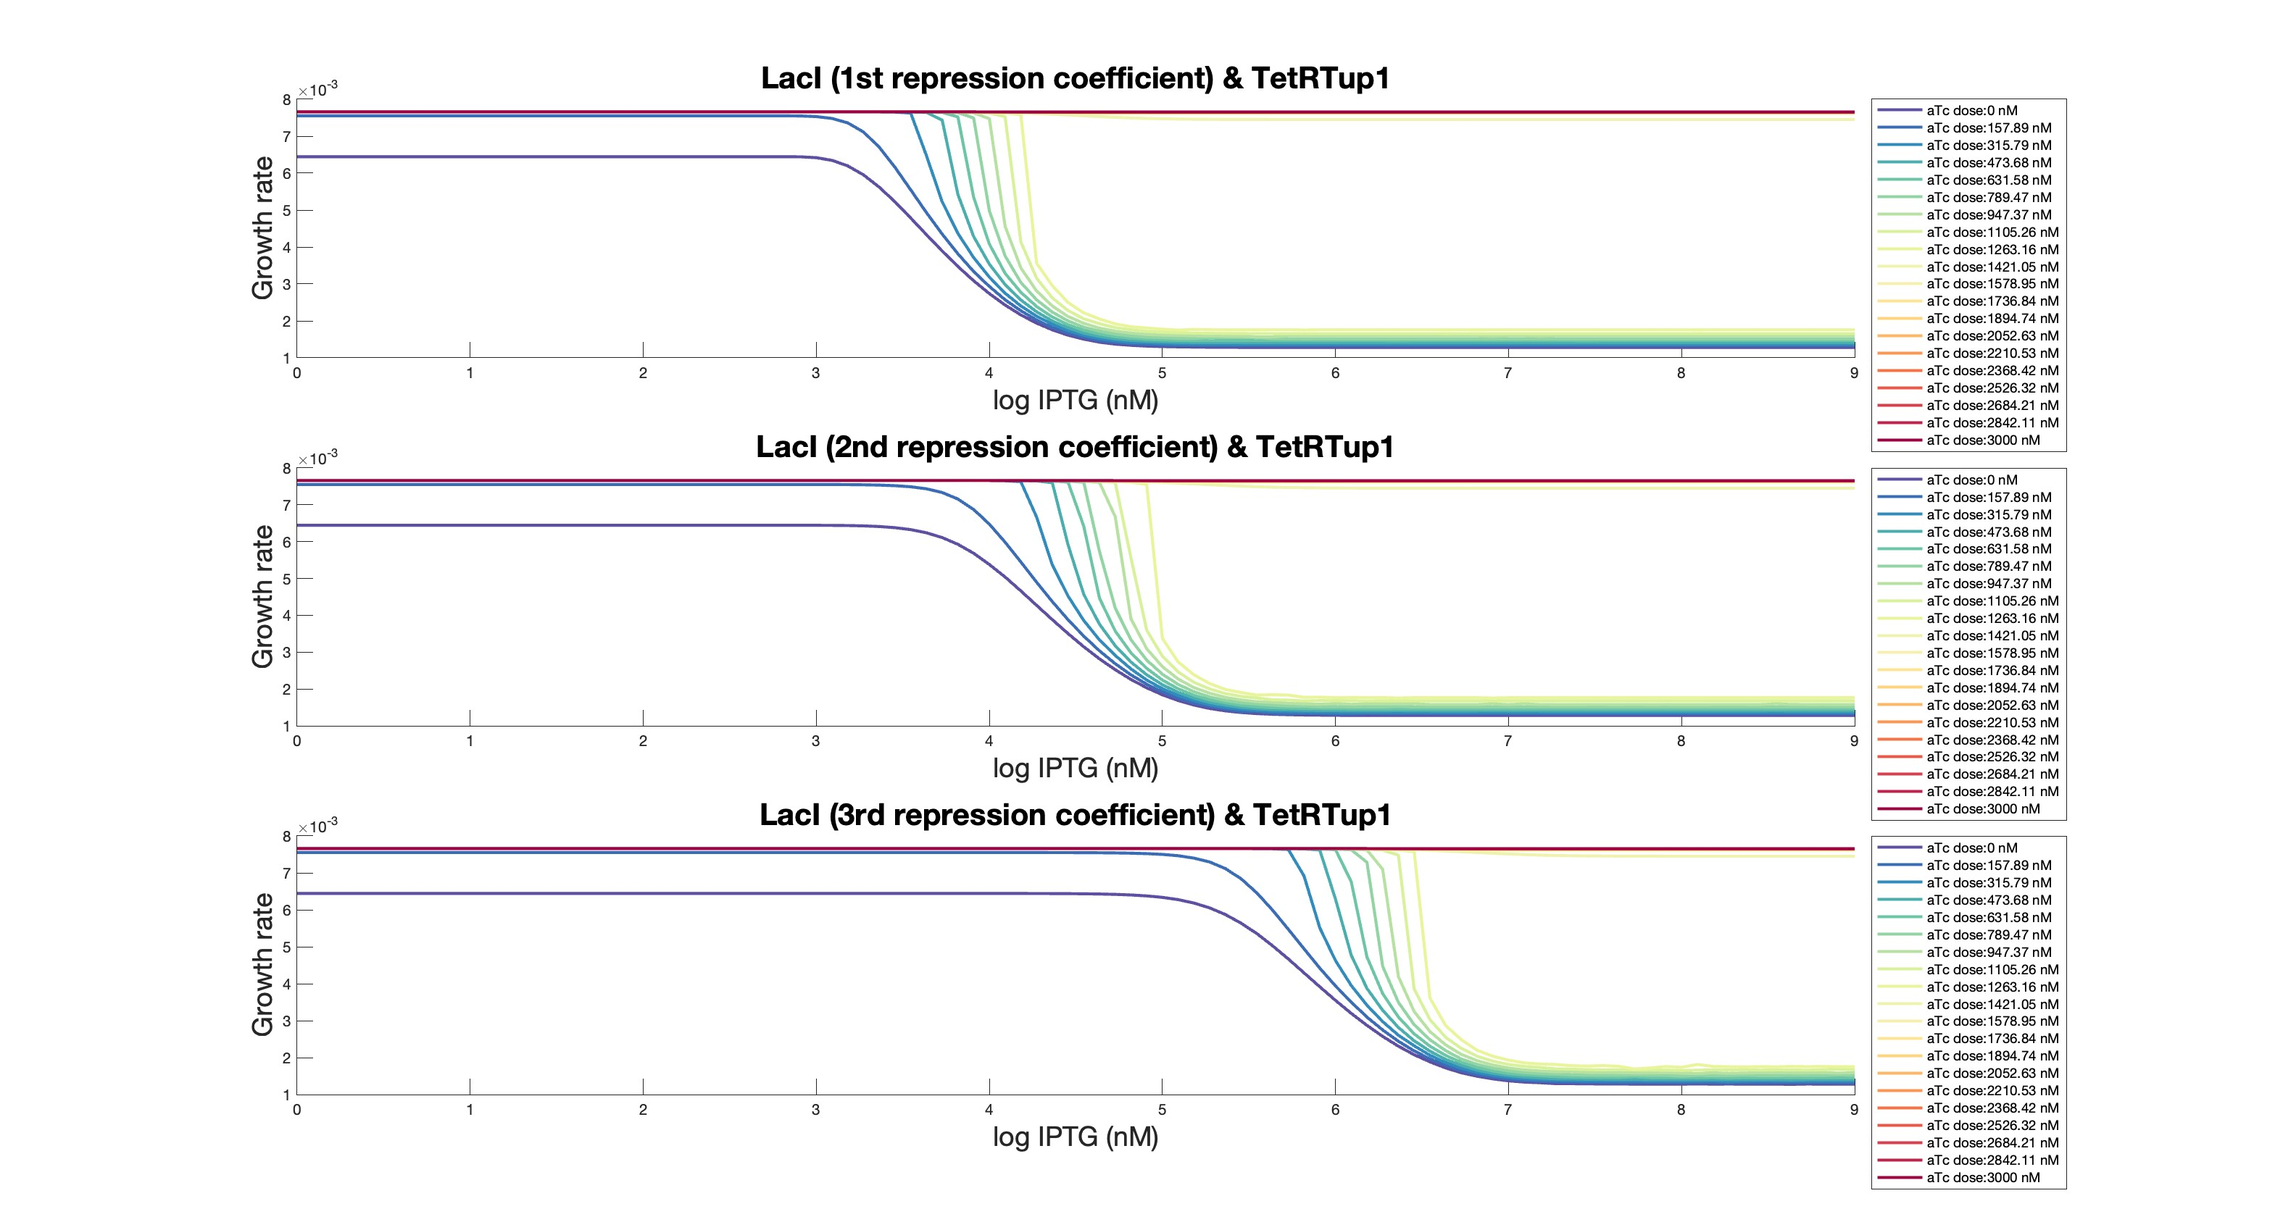
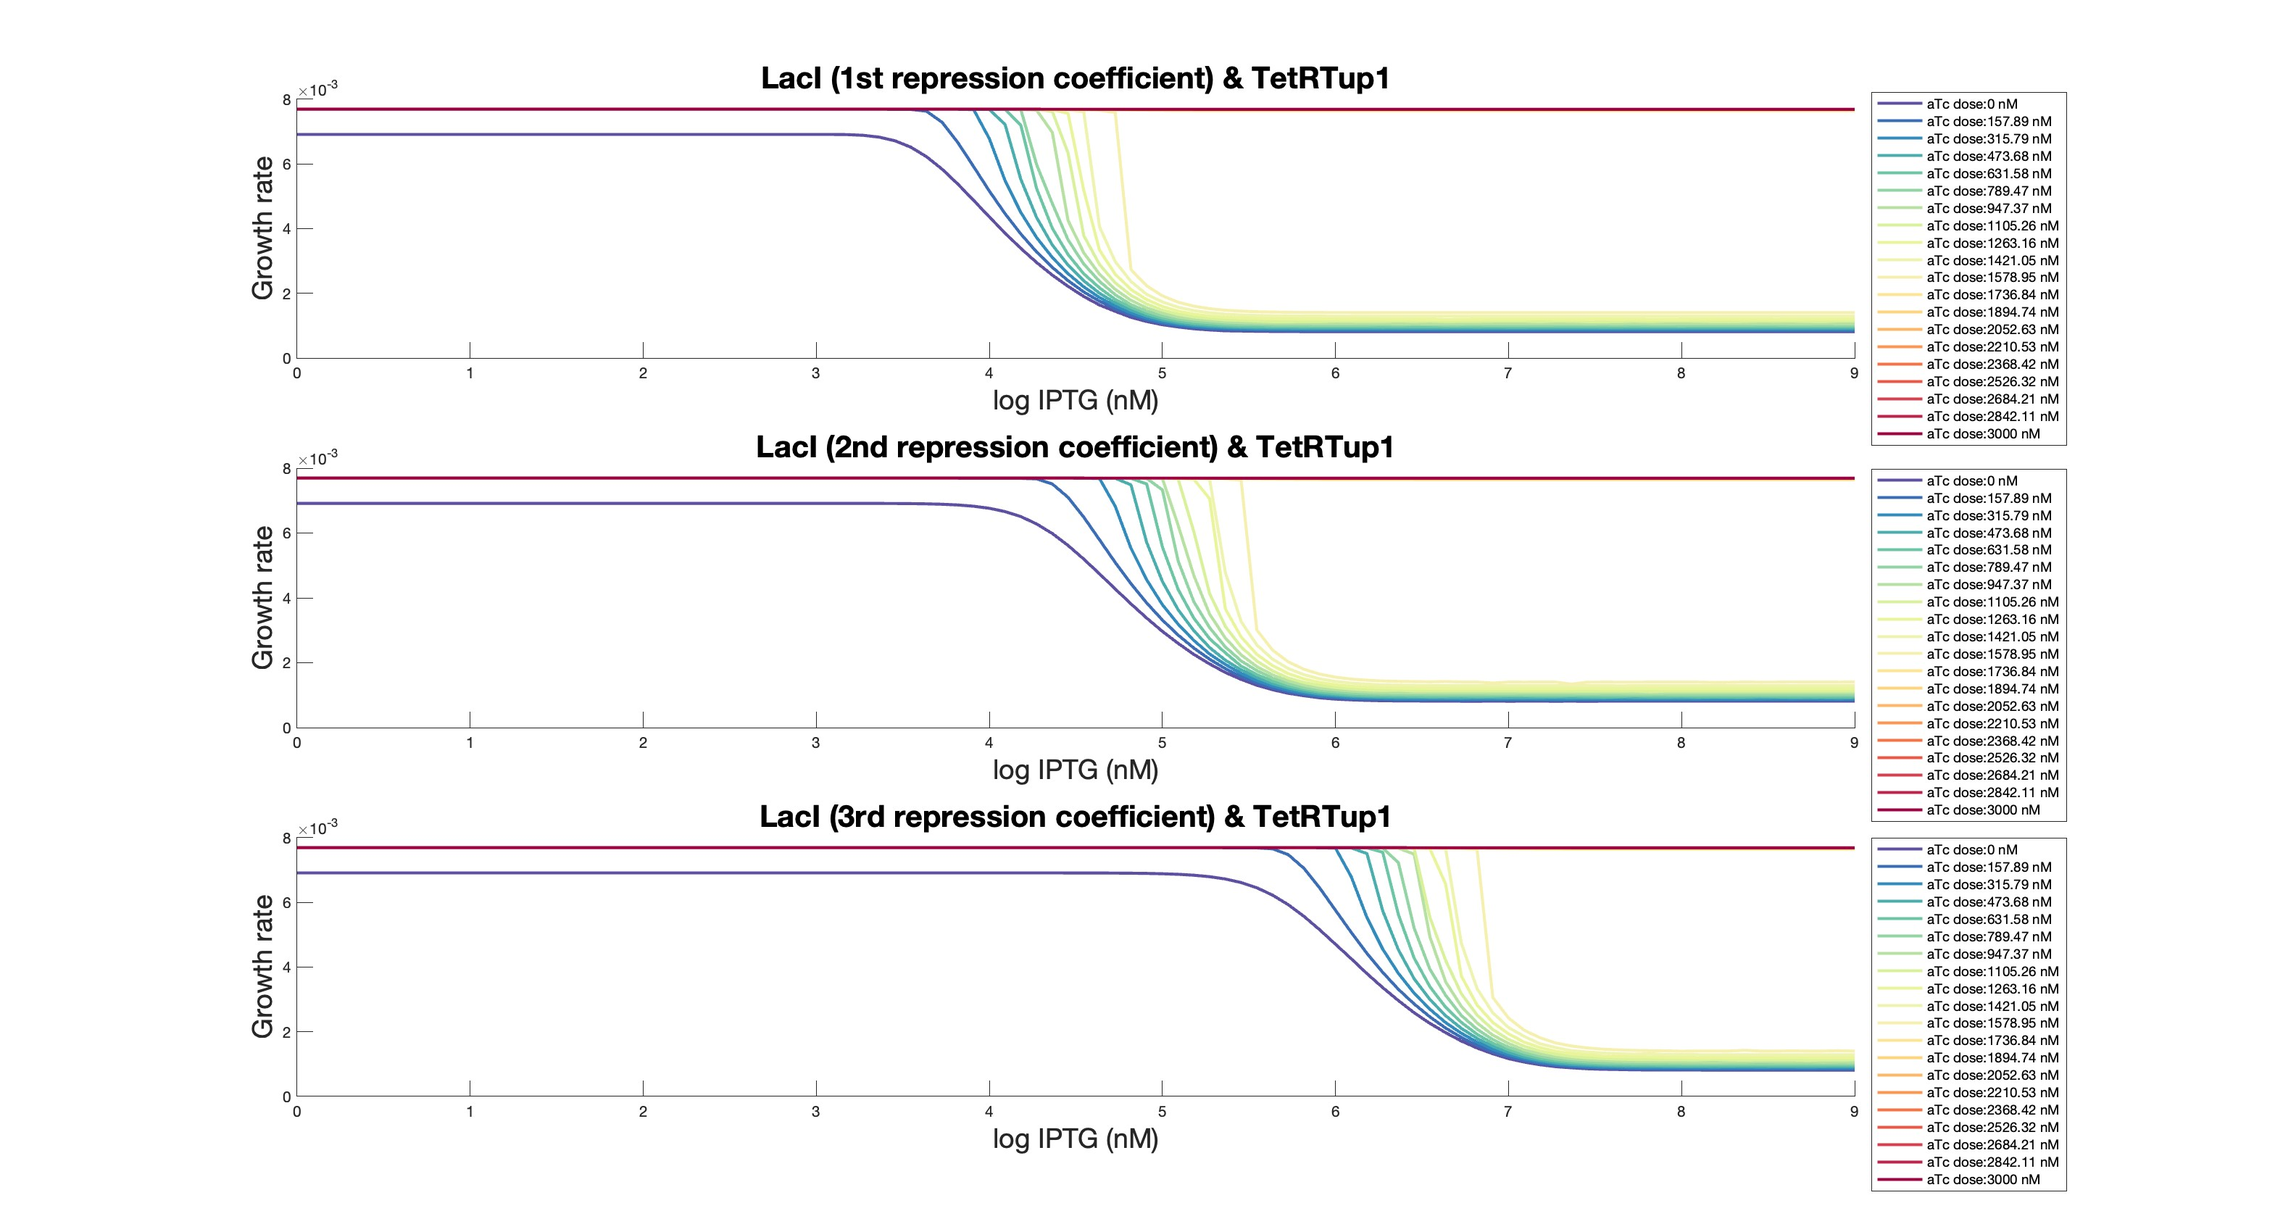
Changes: Take out TetR from equation for TetRTup1free

Changed region(s): [[0.1244, 0.0624, 0.9022, 0.4058], [0.1244, 0.5931, 0.9022, 0.9052], [0.1244, 0.3433, 0.8089, 0.5931]]

diff --git a/Master_Thesis/LacI_TetR_Tup1/PMA1/Code/Model/LacI_TetR_PMA1_model.m b/Master_Thesis/LacI_TetR_Tup1/PMA1/Code/Model/LacI_TetR_PMA1_model.m
@@ -1,8 +1,6 @@
 % Simple model with three species
 
 LacI_TetRTup1_PMA1_model = sbiomodel('LacI_TetRTup1_PMA1_model');
-% unit1 = sbiounit('nM', 'mole', 1000000000);
-% sbioaddtolibrary(unit1);
 
 c = addcompartment(LacI_TetRTup1_PMA1_model, 'comp');
 
@@ -11,20 +9,13 @@ s1 = addspecies(LacI_TetRTup1_PMA1_model, 'LacI', 'InitialAmount', 0);
 s2 = addspecies(LacI_TetRTup1_PMA1_model, 'LacIfree', 'InitialAmount', 0);
 s3 = addspecies(LacI_TetRTup1_PMA1_model, 'TetRTup1', 'InitialAmount', 0);
 s4 = addspecies(LacI_TetRTup1_PMA1_model, 'TetRTup1free', 'InitialAmount', 0);
-s5 = addspecies(LacI_TetRTup1_PMA1_model, 'Citrimmature', 'InitialAmount', 0);
-s6 = addspecies(LacI_TetRTup1_PMA1_model, 'Citrine', 'InitialAmount', 0);
 s7 = addspecies(LacI_TetRTup1_PMA1_model, 'IPTG', 'InitialAmount', 0);
 s8 = addspecies(LacI_TetRTup1_PMA1_model, 'IPTG_InUnit', 'InitialAmount', 0);
 s9 = addspecies(LacI_TetRTup1_PMA1_model, 'KdLacI_InUnit', 'InitialAmount', 0);
 s10 = addspecies(LacI_TetRTup1_PMA1_model, 'KdTetR_InUnit', 'InitialAmount', 0);
 s11 = addspecies(LacI_TetRTup1_PMA1_model, 'aTc', 'InitialAmount', 0);
 s12 = addspecies(LacI_TetRTup1_PMA1_model, 'aTc_InUnit', 'InitialAmount', 0);
-s13 = addspecies(LacI_TetRTup1_PMA1_model, 'TetR', 'InitialAmount', 0);
-s14 = addspecies(LacI_TetRTup1_PMA1_model, 'TetRfree', 'InitialAmount', 0);
 s15 = addspecies(LacI_TetRTup1_PMA1_model, 'PMA1', 'InitialAmount',0);
-%s16 = addspecies(LacI_TetRTup1_PMA1_model, 'mu', 'InitialAmount', 0);
-
-%s16.ConstantAmount = false;
 
 
 p1 = addparameter(LacI_TetRTup1_PMA1_model, 'kLacI', 'Value', 1.3389, 'ValueUnits', '(molarity)/minute');
@@ -35,9 +26,6 @@ p5 = addparameter(LacI_TetRTup1_PMA1_model, 'degtag', 'Value', 0.0077, 'ValueUni
 p6 = addparameter(LacI_TetRTup1_PMA1_model, 'LacIrep', 'Value', 0.3607, 'ValueUnits', 'molarity');
 p7 = addparameter(LacI_TetRTup1_PMA1_model, 'LacIrep2', 'Value', 0.3607, 'ValueUnits', 'molarity');
 p8 = addparameter(LacI_TetRTup1_PMA1_model, 'LacIrep3', 'Value', 0.3607, 'ValueUnits', 'molarity');
-p9 = addparameter(LacI_TetRTup1_PMA1_model, 'kCit', 'Value', 1.3389, 'ValueUnits', '(molarity)/minute');
-p10 = addparameter(LacI_TetRTup1_PMA1_model, 'dCit', 'Value', 0.0077, 'ValueUnits', '1/minute');
-%p11 = addparameter(LacI_TetRTup1_PMA1_model, 'CitL', 'Value', 0.0077, 'ValueUnits', 'dimensionless');
 p12 = addparameter(LacI_TetRTup1_PMA1_model, 'TetRTup1L', 'Value', 0.0077, 'ValueUnits', 'dimensionless');
 p13 = addparameter(LacI_TetRTup1_PMA1_model, 'nLacI', 'Value', 1.001, 'ValueUnits', 'dimensionless');
 p14 = addparameter(LacI_TetRTup1_PMA1_model, 'nTetRTup1', 'Value', 1.001, 'ValueUnits', 'dimensionless');
@@ -47,12 +35,9 @@ p17 = addparameter(LacI_TetRTup1_PMA1_model, 'kmaturation', 'Value', 0.0173, 'Va
 p18 = addparameter(LacI_TetRTup1_PMA1_model, 'nMperUnit', 'Value', 1.6552, 'ValueUnits', 'dimensionless');
 p19 = addparameter(LacI_TetRTup1_PMA1_model, 'mu', 'Value', 0.0077, 'Valueunits', '1/minute');
 p20 = addparameter(LacI_TetRTup1_PMA1_model, 'TetRTup1rep', 'Value', 0.3607, 'ValueUnits', 'molarity');
-p21 = addparameter(LacI_TetRTup1_PMA1_model, 'kTetR', 'Value', 1.3389, 'ValueUnits', '(molarity)/minute');
-p22 = addparameter(LacI_TetRTup1_PMA1_model, 'dTetR', 'Value', 0.0014, 'ValueUnits', '1/minute');
 p23 = addparameter(LacI_TetRTup1_PMA1_model, 'kPMA1', 'Value', 1.3389, 'ValueUnits', '(molarity)/minute');
 p25 = addparameter(LacI_TetRTup1_PMA1_model, 'dPMA1', 'Value', 0.0014, 'ValueUnits', '1/minute');
 p26 = addparameter(LacI_TetRTup1_PMA1_model, 'TetRrep', 'Value', 0.3607, 'ValueUnits', 'molarity');
-p27 = addparameter(LacI_TetRTup1_PMA1_model, 'nTetR', 'Value', 1.001, 'ValueUnits', 'dimensionless');
 p38 = addparameter(LacI_TetRTup1_PMA1_model, 'p1', 'Value', 5, 'ValueUnits', 'dimensionless');
 p39 = addparameter(LacI_TetRTup1_PMA1_model, 'p2', 'Value', 5, 'ValueUnits', 'dimensionless');
 p40 = addparameter(LacI_TetRTup1_PMA1_model, 'growthMIN', 'Value', 0, 'ValueUnits', '1/minute');
@@ -72,14 +57,9 @@ scaling3 = addrule(LacI_TetRTup1_PMA1_model, 'KdTetR_InUnit = KdTetR/nMperUnit',
 scaling4 = addrule(LacI_TetRTup1_PMA1_model, 'aTc_InUnit = aTc/nMperUnit', 'RuleType', 'repeatedAssignment');
 
 raterule1 = addrule(LacI_TetRTup1_PMA1_model, 'LacI = kLacI - (dLacI + mu) * LacI', 'RuleType', 'rate');
-raterule2 = addrule(LacI_TetRTup1_PMA1_model, 'TetRTup1 = kTetRTup1 + kLacTetRTup1 * (TetRTup1L + (1 - TetRTup1L)/(1 + (LacIfree/(LacIrep+LacIrep2+LacIrep3))^nLacI)) - (dTetRTup1 + mu + degtag) * TetRTup1', 'RuleType', 'rate');
-%raterule3 = addrule(LacI_TetRTup1_PMA1_model, 'Citrimmature = kCit * (CitL + (1 - CitL)/(1 + (TetRTup1free/TetRTup1rep)^nTetRTup1)) - (dCit + mu + kmaturation) * Citrimmature', 'RuleType', 'rate');
-%raterule4 = addrule(LacI_TetRTup1_PMA1_model, 'Citrine = kmaturation * Citrimmature - (dCit + mu) * Citrine', 'RuleType', 'rate');
-raterule5 = addrule(LacI_TetRTup1_PMA1_model, 'TetR = kTetR - (dTetR + mu) * TetR', 'RuleType', 'rate');
-raterule6 = addrule(LacI_TetRTup1_PMA1_model, 'PMA1 = kPMA1 * (PMA1L + (1 - PMA1L)/(1 + (TetRTup1free * g/TetRTup1rep)^nTetRTup1)) - (dPMA1 + mu) * PMA1', 'RuleType', 'rate');
+raterule2 = addrule(LacI_TetRTup1_PMA1_model, 'TetRTup1 = kLacTetRTup1 * (TetRTup1L + (1 - TetRTup1L)/(1 + (LacIfree/(LacIrep+LacIrep2+LacIrep3))^nLacI)) - 2*(dTetRTup1 + mu + degtag) * TetRTup1', 'RuleType', 'rate');
+raterule3 = addrule(LacI_TetRTup1_PMA1_model, 'PMA1 = kPMA1 * (PMA1L + (1 - PMA1L)/(1 + (TetRTup1free * g/TetRTup1rep)^nTetRTup1)) - (dPMA1 + mu) * PMA1', 'RuleType', 'rate');
 
 repassrule1 = addrule(LacI_TetRTup1_PMA1_model, 'LacIfree = max(0, LacI/2 - KdLacI_InUnit/2 - IPTG_InUnit/2 + (KdLacI_InUnit^2 + 2*KdLacI_InUnit*LacI + 2*KdLacI_InUnit*IPTG_InUnit + LacI^2 - 2*LacI*IPTG_InUnit + IPTG_InUnit^2)^(1/2)/2)', 'RuleType', 'repeatedAssignment');
-repassrule2 = addrule(LacI_TetRTup1_PMA1_model, 'TetRTup1free = max(TetRTup1 - (TetR*TetRTup1 + TetRTup1*aTc_InUnit - TetRTup1*(KdTetR_InUnit^2 + 2*KdTetR_InUnit*TetR + 2*KdTetR_InUnit*TetRTup1 + 2*KdTetR_InUnit*aTc_InUnit + TetR^2 + 2*TetR*TetRTup1 - 2*TetR*aTc_InUnit + TetRTup1^2 - 2*TetRTup1*aTc_InUnit + aTc_InUnit^2)^(1/2) + TetRTup1^2 + KdTetR_InUnit*TetRTup1)/(2*(TetR + TetRTup1)),0)', 'RuleType', 'repeatedAssignment');
-%repassrule3 = addrule(LacI_TetRTup1_PMA1_model, 'TetRfree = max(TetR - (TetR*(TetR*TetRTup1 + TetRTup1*aTc_InUnit - TetRTup1*(KdTetR_InUnit^2 + 2*KdTetR_InUnit*TetR + 2*KdTetR_InUnit*TetRTup1 + 2*KdTetR_InUnit*aTc_InUnit + TetR^2 + 2*TetR*TetRTup1 - 2*TetR*aTc_InUnit + TetRTup1^2 - 2*TetRTup1*aTc_InUnit + aTc_InUnit^2)^(1/2) + TetRTup1^2 + KdTetR_InUnit*TetRTup1))/(2*TetRTup1*(TetR + TetRTup1)),0)', 'RuleType', 'repeatedAssignment');
-repassrule4 = addrule(LacI_TetRTup1_PMA1_model, 'mu = max(0,growthMAX  + (growthMIN  - growthMAX )/(1 + exp(p2*(log((PMA1/PMAfactor)*nMperUnit)-p1))))', 'RuleType', 'repeatedAssignment');
-%repassrule5 = addrule(LacI_TetRTup1_PMA1_model, 'PMA1 = PMA1/PMAfactor', 'RuleType', 'repeatedAssignment');
+repassrule2 = addrule(LacI_TetRTup1_PMA1_model, 'TetRTup1free = max(0, TetRTup1/2 - KdTetR_InUnit/2 - aTc_InUnit/2 + (KdTetR_InUnit^2 + 2*KdTetR_InUnit*TetRTup1 + 2*KdTetR_InUnit*aTc_InUnit + TetRTup1^2 - 2*TetRTup1*aTc_InUnit + aTc_InUnit^2)^(1/2)/2)', 'RuleType', 'repeatedAssignment');
+repassrule3 = addrule(LacI_TetRTup1_PMA1_model, 'mu = max(0, growthMAX  + (growthMIN  - growthMAX )/(1 + exp(p2*(log((PMA1/PMAfactor)*nMperUnit)-p1))))', 'RuleType', 'repeatedAssignment');

diff --git a/Master_Thesis/LacI_TetR_Tup1/PMA1/Code/Simulationfunction/Simulate_random_drawn_parameters_TetRTup1_PMA1_model.m b/Master_Thesis/LacI_TetR_Tup1/PMA1/Code/Simulationfunction/Simulate_random_drawn_parameters_TetRTup1_PMA1_model.m
@@ -17,7 +17,7 @@ for k = 1:height(rand_parameter)
         %% module 1: ptetTetR + ptetCitrine
             para = paraValues;
 
-            NamestoZero = setdiff(ParaNames,{'kLacI','dLacI', 'kTetRTup1', 'dTetRTup1', 'degtag','LacIrep', 'TetRTup1L', 'nLacI', 'indTime', 'nTetRTup1', 'KdLacI', 'KdTetR', 'kmaturation', 'nMperUnit', 'mu', 'TetRTup1rep', 'kTetR', 'dTetR', 'nTetR', 'p1', 'p2', 'growthMIN', 'growthMAX', 'f', 'g', 'kPMA1', 'dPMA1', 'PMAfactor', 'kLacTetRTup1'});                            
+            NamestoZero = setdiff(ParaNames,{'kLacI','dLacI', 'kTetRTup1', 'dTetRTup1', 'degtag','LacIrep', 'TetRTup1L', 'nLacI', 'indTime', 'nTetRTup1', 'KdLacI', 'KdTetR', 'kmaturation', 'nMperUnit', 'mu', 'TetRTup1rep', 'p1', 'p2', 'growthMIN', 'growthMAX', 'f', 'g', 'kPMA1', 'dPMA1', 'PMAfactor', 'kLacTetRTup1'});                            
             IdxToZero = find(ismember(ParaNames, NamestoZero)) ;           
             para(IdxToZero) = 0;
 
@@ -78,7 +78,7 @@ for k = 1:height(rand_parameter)
         %% module 1: ptetTetR + ptetCitrine
             para = paraValues;
 
-            NamestoZero = setdiff(ParaNames,{'kLacI','dLacI', 'kTetRTup1', 'dTetRTup1', 'degtag','LacIrep2', 'kCit', 'CitL', 'TetRTup1L', 'nLacI', 'indTime', 'nTetRTup1', 'KdLacI', 'KdTetR', 'kmaturation', 'nMperUnit', 'mu', 'TetRTup1rep', 'kTetR', 'dTetR', 'nTetR', 'p1', 'p2', 'growthMIN', 'growthMAX', 'f', 'g', 'kPMA1', 'dPMA1', 'PMAfactor', 'kLacTetRTup1'});                            
+            NamestoZero = setdiff(ParaNames,{'kLacI','dLacI', 'kTetRTup1', 'dTetRTup1', 'degtag','LacIrep2', 'kCit', 'CitL', 'TetRTup1L', 'nLacI', 'indTime', 'nTetRTup1', 'KdLacI', 'KdTetR', 'kmaturation', 'nMperUnit','mu', 'TetRTup1rep', 'p1', 'p2', 'growthMIN', 'growthMAX', 'f', 'g', 'kPMA1', 'dPMA1', 'PMAfactor', 'kLacTetRTup1'});                            
             IdxToZero = find(ismember(ParaNames, NamestoZero)) ;           
             para(IdxToZero) = 0;
 
@@ -134,7 +134,7 @@ for k = 1:height(rand_parameter)
         %% module 1: ptetTetR + ptetCitrine
             para = paraValues;
 
-            NamestoZero = setdiff(ParaNames,{'kLacI','dLacI', 'kTetRTup1', 'dTetRTup1', 'degtag','LacIrep3', 'kCit', 'CitL', 'TetRTup1L', 'nLacI', 'indTime', 'nTetRTup1', 'KdLacI', 'KdTetR', 'kmaturation', 'nMperUnit', 'mu', 'TetRTup1rep', 'kTetR', 'dTetR', 'nTetR', 'p1', 'p2', 'growthMIN', 'growthMAX', 'f', 'g', 'kPMA1', 'dPMA1', 'PMAfactor', 'kLacTetRTup1'});                            
+            NamestoZero = setdiff(ParaNames,{'kLacI','dLacI', 'kTetRTup1', 'dTetRTup1', 'degtag','LacIrep3', 'kCit', 'CitL', 'TetRTup1L', 'nLacI', 'indTime', 'nTetRTup1', 'KdLacI', 'KdTetR', 'kmaturation', 'nMperUnit','mu', 'TetRTup1rep', 'p1', 'p2', 'growthMIN', 'growthMAX', 'f', 'g', 'kPMA1', 'dPMA1', 'PMAfactor', 'kLacTetRTup1'});                            
             IdxToZero = find(ismember(ParaNames, NamestoZero)) ;           
             para(IdxToZero) = 0;
 
@@ -246,12 +246,12 @@ for k = 1:height(rand_parameter)
 % 
 %         
 %         
-for k = 1:num_draws
+
         %set the figure to be sceensize
              set(figure(k), 'Position', get(0, 'Screensize'));
             %save figure
              saveas(figure(k), ['/Users/claudiobroger/Documents/ETH/Master/Master_Thesis/LacI_TetR_Tup1/PMA1/Plots/Full_aTc/More_time/More_aTc/Corrected/', datestr(now, 'dd-mmm-yyyy'),num2str(k),'LacI_TetRTup1_PMA1_more_aTc_more_time', '.jpg']);
-end
+
             counter = counter + 1
 
 

diff --git a/Master_Thesis/LacI_TetR_Tup1/PMA1/Code/Simulationfunction/simulate_DR_IPTG_TetR_aTc_PMA1.m b/Master_Thesis/LacI_TetR_Tup1/PMA1/Code/Simulationfunction/simulate_DR_IPTG_TetR_aTc_PMA1.m
@@ -1,4 +1,4 @@
-function growth_rate = simulate_DR_IPTG_TetR_aTc(para, data_IPTG,data, ParaNames,model)
+function growth_rate = simulate_DR_IPTG_TetR_aTc_PMA1(para, data_IPTG,data, ParaNames,model)
 % simulates the fluorescent values with parameters para using the
 % timepoints from the data
 
@@ -20,17 +20,14 @@ function growth_rate = simulate_DR_IPTG_TetR_aTc(para, data_IPTG,data, ParaNames
     d1.time = indTime;
     d1.TargetName = 'IPTG';
     d1.Active = true;
-    %x_scal = 0.0077*(data.tdh3 - data.empty); % scaling factor
-    x_scal =  (data_IPTG.tdh3 - data_IPTG.empty)*0.0077*(0.0173+0.0077)/0.0173;  % scaling factor (Fact - F0)*rho*(km+rho)/km       
-
+    
     dose_aTc = data.dose;
     d2 = sbiodose('d2', 'schedule');
     d2.Amount = 0;
     d2.time = indTime;
     d2.TargetName = 'aTc';
     d2.Active = true;
-    x_scal_aTc = (data.tdh3 - data.empty)*0.0077*(0.0173+0.0077)/0.0173;
-
+    
 % Apply parametervalues to the model
     for index = 1:length(para)
         model.mw_sbmod1.Parameters(index).Value = para(index,1);
@@ -49,9 +46,8 @@ function growth_rate = simulate_DR_IPTG_TetR_aTc(para, data_IPTG,data, ParaNames
             index = ismember(species, 'PMA1');
             SimPMA1Values = sd(end,index);
             SimPMA1Values_over_time = sd(:,index)';
-            %SimPMA1Values(adose, kdose) = x_scal_aTc*SimPMA1Values + data.empty;
             growth_rate(adose,kdose) = max(0,para(29)  + (para(28)  - para(29) )/(1 + exp(para(27)*(log((SimPMA1Values)*para(17))-para(26)))));
-%             growth_rate_o_t(adose,:) = max(0,para(29)  + (para(28)  - para(29) )./(1 + exp(5*(log((SimPMA1Values_over_time)*para(17))-5))));
+%             growth_rate_o_t(adose,:) = max(0,para(29)  + (para(28)  - para(29) )./(1 + exp(para(27)*(log((SimPMA1Values_over_time)*para(17))-para(26)))));
 %             time = t;
         catch ME
             disp(ME)

diff --git a/Master_Thesis/LacI_TetR_Tup1/PMA1/Code/Parameter drawing/draw_parameters_LacI_TetR_PMA1.m b/Master_Thesis/LacI_TetR_Tup1/PMA1/Code/Parameter drawing/draw_parameters_LacI_TetR_PMA1.m
@@ -11,13 +11,10 @@ parameters.name(14) = {"degtag"};
 parameters.name(23) = {"LacIrep"};
 parameters.name(25) = {"LacIrep2"};
 parameters.name(26) = {"LacIrep3"};
-parameters.name(5) = {"kCit"};
-parameters.name(17) = {"dCit"};
 parameters.name(18) = {"PMA1L"};
 parameters.name(20) = {"TetRTup1L"};
 parameters.name(31) = {"nTetRTup1"};
 parameters.name(22) = {"TetRTup1rep"};
-parameters.name(2) = {"kTetR"};
 parameters.name(4) = {"kPMA1"};
 parameters.name(21) = {"TetRrep"};
 parameters.name(11) = {"kLacTetRTup1"}
@@ -48,11 +45,10 @@ for draw=1:num_draws
     end
 end
 
-rand_parameter(:,1:11) = 10.^rand_parameter(:,1:11);
-rand_parameter(:,15) = 10.^rand_parameter(:,15);
-rand_parameter(:,17:22) = 10.^rand_parameter(:,17:22);
-rand_parameter(:,24) = 10.^rand_parameter(:,24);
-rand_parameter(:,26:27) = 10.^rand_parameter(:,26:27);
+rand_parameter(:,1:9) = 10.^rand_parameter(:,1:9);
+rand_parameter(:,13) = 10.^rand_parameter(:,13);
+rand_parameter(:,15:19) = 10.^rand_parameter(:,15:19);
+rand_parameter(:,21:22) = 10.^rand_parameter(:,21:22);
 rand_parameter = array2table(rand_parameter);
 rand_parameter.Properties.VariableNames(:) = table2array(parameters.name(index,:));
 
@@ -60,9 +56,6 @@ rand_parameter.nMperUnit(:) = 10^1.1;
 
 rand_parameter.mu(:) = 0.0077;
 rand_parameter.kmaturation(:) = 0.0173;
-rand_parameter.dCit(:) = 0;
-%rand_parameter.p1(:) = 5;
-%rand_parameter.p2(:) = 5;
 rand_parameter.growthMIN(:) = 0;
 rand_parameter.growthMAX(:) = 0.0077;
 rand_parameter.f(:) = 1;

diff --git a/Master_Thesis/LacI/code/scripts/solve_TetRfree.m b/Master_Thesis/LacI/code/scripts/solve_TetRfree.m
@@ -20,22 +20,22 @@ ylabel('log10([LexAon])')
 legend('est = 1','est = 10','est = 100','est = 1000')
 
 %%
-syms aTc TetR TetRon Kd
-solve(TetRon*(aTc - TetR + TetRon) == Kd*(TetR - TetRon),TetRon)
-sol = solve(TetRon*(aTc - TetR + TetRon) == Kd*(TetR - TetRon),TetRon);
-TetR = logspace(0,3,10);
-aTc = 10;
-Kd = 15;
-solTetR = subs(sol(2),'TetR',TetR);
-solTetR = subs(solTetR,'Kd',Kd);
+syms aTc_InUnit TetRTup1 TetRTup1on KdTetR_InUnit
+solve(TetRTup1on*(aTc_InUnit - TetRTup1 + TetRTup1on) == KdTetR_InUnit*(TetRTup1 - TetRTup1on),TetRTup1on)
+sol = solve(TetRTup1on*(aTc_InUnit - TetRTup1 + TetRTup1on) == KdTetR_InUnit*(TetRTup1 - TetRTup1on),TetRTup1on);
+TetRTup1 = logspace(0,3,10);
+aTc_InUnit = 10;
+KdTetR_InUnit = 15;
+solTetR = subs(sol(2),'TetR',TetRTup1);
+solTetR = subs(solTetR,'Kd',KdTetR_InUnit);
 solTetR1 = subs(solTetR,'aTc',1);
 solTetR10 = subs(solTetR,'aTc',10);
 solTetR100 = subs(solTetR,'aTc',100);
 solTetR1000 = subs(solTetR,'aTc',1000);
-plot(log10(TetR),log10(solTetR1));
-hold on; plot(log10(TetR),log10(solTetR10))
-hold on; plot(log10(TetR),log10(solTetR100));
-hold on; plot(log10(TetR),log10(solTetR1000));
+plot(log10(TetRTup1),log10(solTetR1));
+hold on; plot(log10(TetRTup1),log10(solTetR10))
+hold on; plot(log10(TetRTup1),log10(solTetR100));
+hold on; plot(log10(TetRTup1),log10(solTetR1000));
 legend('aTc = 1','aTc = 10','aTc = 100','aTc = 1000')
 xlabel('log10([TetR])')
 ylabel('log10([TetRon])')

diff --git a/Master_Thesis/LacI_TetR_Tup1/PMA1/Code/Model/ModelSettings_LacI_TetR_model_PMA1.m b/Master_Thesis/LacI_TetR_Tup1/PMA1/Code/Model/ModelSettings_LacI_TetR_model_PMA1.m
@@ -17,7 +17,7 @@ Settings.model.FlMode = [1 2 3];
 Settings.model.objF = 'objf_LacI_TetR_simple';
 
 data_IPTG.dose = logspace(0,9,100)';
-data_IPTG.time = 2500;
+data_IPTG.time = 5000;
 data_IPTG.tdh3 = 85.8657;
 data_IPTG.empty = 0.5198;
 
@@ -25,6 +25,6 @@ load("dataSRtup1.mat")
 
 %data.dose = [linspace(min(data.dose), max(data.dose)*0.15, 15) linspace(max(data.dose)*0.15, max(data.dose)*0.2, 5)]';
 data.dose = linspace(min(data.dose), 3000, 20)';
-data.time = 1000;
+data.time = 2000;
 
 
